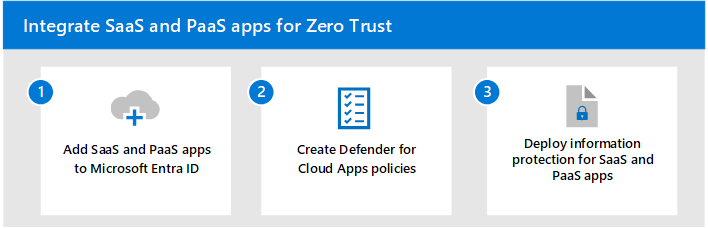
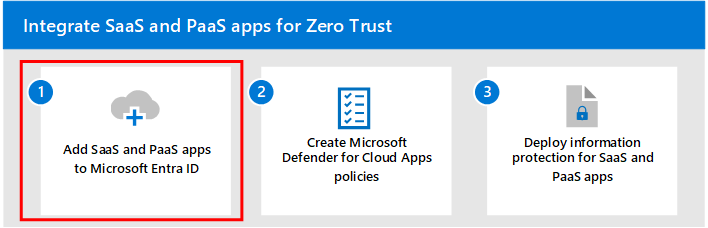
Zero Trust SaaS solution article updates.

diff --git a/security-docs/zero-trust/add-saas-apps.md b/security-docs/zero-trust/add-saas-apps.md
@@ -16,15 +16,17 @@ ms.collection:
 
 # Step 1: Add SaaS apps to Microsoft Entra ID and to the scope of policies 
 
+<!---
 Many organizations rely on SaaS apps to run business workflows. The ease of use, cost effectiveness, and scalability makes it a viable solution for organizations to adopt. Because of the amount information and access to valuable resources these apps have, proper measures must be in place to secure these business-critical apps.
+--->
 
-Microsoft Entra ID is the Microsoft cloud-based identity and access management service. Microsoft Entra ID provides secure authentication and authorization solutions so that customers, partners, and employees can access the applications they need. With Microsoft Entra ID, [Conditional Access](/azure/active-directory/conditional-access/overview), [multi-factor authentication](/azure/active-directory/authentication/concept-mfa-howitworks), [single-sign on](/azure/active-directory/hybrid/how-to-connect-sso), and [automatic user provisioning](/azure/active-directory/app-provisioning/user-provisioning) make identity and access management easy and secure.
+Microsoft Entra ID is the Microsoft cloud-based identity and access management service. Microsoft Entra ID provides secure authentication and authorization solutions so that customers, partners, and employees can access the applications they need. With Microsoft Entra ID, [Conditional Access](/azure/active-directory/conditional-access/overview), [multi-factor authentication](/azure/active-directory/authentication/concept-mfa-howitworks), [single-sign on (SSO)](/azure/active-directory/hybrid/how-to-connect-sso), and [automatic user provisioning](/azure/active-directory/app-provisioning/user-provisioning) make identity and access management easy and secure.
 
-Add apps in Microsoft Entra ID so that you can monitor and configure access for applications in the cloud. Microsoft Entra ID has an application gallery which is a collection of SaaS apps that have been pre-integrated with Microsoft Entra ID. You can also choose to add your own custom apps. For more information, see [Five steps for integrating all your apps with Microsoft Entra ID](/azure/active-directory/fundamentals/five-steps-to-full-application-integration-with-azure-ad).
+Add your cloud apps in Microsoft Entra ID so that you can monitor and configure access for them. Microsoft Entra ID has an application gallery, which is a collection of SaaS apps that have been pre-integrated with Microsoft Entra ID. You can also your own custom apps. For more information, see [Five steps for integrating all your apps with Microsoft Entra ID](/azure/active-directory/fundamentals/five-steps-to-full-application-integration-with-azure-ad).
 
-After adding apps to Microsoft Entra ID, you can configure how apps are accessed by including them in the scope of your Zero Trust identity and device access policies. 
+After adding apps to Microsoft Entra ID, you can configure how apps are accessed and subject to specific conditions by including them in the scope of your [Zero Trust identity and device access policies](/microsoft-365/security/office-365-security/zero-trust-identity-device-access-policies-overview). 
 
-If you already have Defender for Cloud Apps deployed, you can discover SaaS apps that are being used in your organization. For more information, see [Discover and manage shadow IT in your network](/defender-cloud-apps/tutorial-shadow-it).
+If you already have Microsoft Defender for Cloud Apps deployed, you can discover SaaS apps that are being used in your organization. For more information, see [Step 2 of this solution](create-policies.md) and [Discover and manage shadow IT in your network](/defender-cloud-apps/tutorial-shadow-it).
 
 <a name='adding-apps-in-azure-ad'></a>
 
@@ -32,62 +34,61 @@ If you already have Defender for Cloud Apps deployed, you can discover SaaS apps
 
 Adding apps in Microsoft Entra ID helps you leverage one or more of the services it provides including:
 
-* Application authentication and authorization
-* User authentication and authorization
-* SSO using federation or password
-* User provisioning and synchronization
-* Role-based access control - Use the directory to define application roles to perform role-based authorization checks in an application
-* OAuth authorization services - Used by Microsoft 365 and other Microsoft applications to authorize access to APIs/resources
-* Application publishing and proxy - Publish an application from a private network to the internet
-* Directory schema extension attributes to store additional data in Microsoft Entra ID 
+- Application authentication and authorization
+- User authentication and authorization
+- SSO using federation or password
+- User provisioning and synchronization
+- Role-based access control: Use the directory to define application roles to perform role-based authorization checks in an application.
+- OAuth authorization services: Used by Microsoft 365 and other Microsoft applications to authorize access to APIs/resources.
+- Application publishing and proxy: Publish an application from your private network to the internet.
+- Directory schema extension attributes to store additional data in Microsoft Entra ID
 
 There are several ways you can add apps in Microsoft Entra ID. The easiest way to start managing apps is to use the application gallery. You also have the option of adding custom apps. This section will guide you through both ways. 
 
 ### Add apps from the application gallery
 
-Microsoft Entra ID has an application gallery that contains a collection of SaaS apps that have been pre-integrated with Microsoft Entra ID. All you need to do is sign into Microsoft Entra ID and choose from applications from specific cloud platforms, featured applications, or you search for the application that you want to use.
+Microsoft Entra ID has an application gallery that contains a collection of SaaS apps that have been pre-integrated with Microsoft Entra ID. Just sign into Microsoft Entra ID and choose the applications from specific cloud platforms, featured applications, or search for the application that you want to use.
 
 For more information, see [Add an enterprise application](/azure/active-directory/manage-apps/add-application-portal#add-an-enterprise-application) and [Overview of Microsoft Entra application gallery](/azure/active-directory/manage-apps/overview-application-gallery).
 
 <a name='adding-custom-apps-in-azure-ad-app-gallery'></a>
 
 ### Adding custom apps in Microsoft Entra app gallery
-You can develop your own application and register it in Microsoft Entra ID. Registering it with Microsoft Entra ID lets you leverage the security features that the tenant provides. You can register your application in **App Registrations**, or you can register it using the **Create your own application** link when adding a new application in **Enterprise applications**.
 
-For more information, see  [Request to publish your application in the Microsoft Entra application gallery](/azure/active-directory/manage-apps/v2-howto-app-gallery-listing).
+You can develop your own custom cloud apps and register them in Microsoft Entra ID. Registering them with Microsoft Entra ID lets you leverage the security features that your Microsoft 365 tenant provides. You can register your application in **App Registrations**, or you can register it using the **Create your own application** link when adding a new application in **Enterprise applications**.
 
-## Add to the scope of your Zero Trust identity and device access policies
+For more information, see [Request to publish your application in the Microsoft Entra application gallery](/azure/active-directory/manage-apps/v2-howto-app-gallery-listing).
 
-After adding apps in Microsoft Entra ID, you'll need to add them to the scope your identity and device access policies. 
+## Add apps to the scope of your Zero Trust identity and device access policies
 
-Conditional Access policies allow administrators to assign controls to specific applications, actions, or authentication context. You can define conditions such as what device type can access a resource, user risk levels, trusted locations, as well as other conditions. Multifactor authentication (MFA) is also part of these policies. 
+Conditional Access policies allow you to assign controls to specific applications, actions, or authentication context. You can define conditions such as what device type can access a resource, user risk levels, trusted locations, as well as other conditions such as strong authentication. For example multifactor authentication (MFA) helps safeguard access to data and applications, by providing additional security by requiring a second form of verification and delivers strong authentication. 
 
-MFA helps safeguard access to data and applications, by providing additional security by requiring a second form of verification and delivers strong authentication. 
-
-:::image type="content" source="media/identity-access-ruleset-saas.svg" alt-text="The summary of policy updates for the protection of access to SaaS apps" lightbox="media/identity-access-ruleset-saas.svg":::
+After adding apps in Microsoft Entra ID, you'll need to add them to the scope of your identity and device Conditional Access policies. 
 
 ### Updating common policies 
 
-The following diagram illustrates which policies to update from the common identity and device access policies for SaaS apps.
+The following diagram shows the Zero Trust identity and device access policies for SaaS and PaaS apps, highlighting the set of common Conditional Access policies whose scopes must be modified to include your SaaS apps.
 
-For each policy to update, make sure that apps and dependent services are included in the assignment of cloud apps.
+:::image type="content" source="media/identity-access-ruleset-saas.svg" alt-text="The Zero Trust identity and device access policies for SaaS apps with the policies whose scopes must be modified highlighted." lightbox="media/identity-access-ruleset-saas.svg":::
 
-This table lists the policies that need to be revisited and links to each policy in the [common identity and device access policies](/microsoft-365/security/office-365-security/microsoft-365-policies-configurations).
+For each policy to update, make sure that your apps and their dependent services are included in the assignment of cloud apps.
+
+This table lists the policies that need to be reviewed with links to each policy in the [common identity and device access policies](/microsoft-365/security/office-365-security/microsoft-365-policies-configurations).
 
 |Protection level|Policies|Description|
 |---|---|---|
-|**Starting point**|[Require MFA when sign-in risk is *medium* or *high*](/microsoft-365/security/office-365-security/identity-access-policies#require-mfa-based-on-sign-in-risk)|Be sure apps and dependent services are included in the list of apps. |
-||[Block clients that don't support modern authentication](/microsoft-365/security/office-365-security/identity-access-policies#block-clients-that-dont-support-multi-factor)|Include apps and dependent services in the assignment of cloud apps.|
-||[High risk users must change password](/microsoft-365/security/office-365-security/identity-access-policies#high-risk-users-must-change-password)|Forces app users to change their password when signing in if high-risk activity is detected for their account. |
-||[Apply APP data protection policies](/microsoft-365/security/office-365-security/identity-access-policies#apply-app-data-protection-policies)|Be sure apps and dependent services are included in the list of apps. Update the policy for each platform (iOS, Android, Windows).|
-|**Enterprise**|[Require MFA when sign-in risk is *low*, *medium* or *high*](/microsoft-365/security/office-365-security/identity-access-policies#require-mfa-based-on-sign-in-risk)| Include apps and dependent services in this policy.|
-||[Require compliant PCs *and* mobile devices](/microsoft-365/security/office-365-security/identity-access-policies#require-compliant-pcs-and-mobile-devices)|Include apps and dependent services in this policy.|
-|**Specialized security**|[*Always* require MFA](/microsoft-365/security/office-365-security/identity-access-policies#require-mfa-based-on-sign-in-risk)|Regardless of user identity, MFA will be used by your organization.  |
+| **Starting point** | [Require MFA when sign-in risk is *medium* or *high*](/microsoft-365/security/office-365-security/identity-access-policies#require-mfa-based-on-sign-in-risk) | Be sure apps and dependent services are included in the list of apps. |
+| | [Block clients that don't support modern authentication](/microsoft-365/security/office-365-security/identity-access-policies#block-clients-that-dont-support-multi-factor) | Include apps and dependent services in the assignment of cloud apps.|
+| | [High risk users must change password](/microsoft-365/security/office-365-security/identity-access-policies#high-risk-users-must-change-password) | Forces app users to change their password when signing in if high-risk activity is detected for their account. |
+| | [Apply APP data protection policies](/microsoft-365/security/office-365-security/identity-access-policies#apply-app-data-protection-policies) | Be sure apps and dependent services are included in the list of apps. Update the policy for each platform (iOS, Android, Windows). |
+| **Enterprise** | [Require MFA when sign-in risk is *low*, *medium*, or *high*](/microsoft-365/security/office-365-security/identity-access-policies#require-mfa-based-on-sign-in-risk) | Include apps and dependent services in this policy. |
+| | [Require compliant PCs *and* mobile devices](/microsoft-365/security/office-365-security/identity-access-policies#require-compliant-pcs-and-mobile-devices) | Include apps and dependent services in this policy. |
+| **Specialized security** | [Always require MFA](/microsoft-365/security/office-365-security/identity-access-policies#require-mfa-based-on-sign-in-risk) | Regardless of user identity, MFA will be used by your organization.  |
 
 For more information, see [Recommended Microsoft Defender for Cloud Apps policies for SaaS apps](/microsoft-365/security/office-365-security/mcas-saas-access-policies). 
 
 ## Next step
 
-:::image type="content" source="media/saas-zt-steps-2.png" alt-text="Image of Zero Trust SaaS guidance with step 2 highlighted":::
+[![The steps for integrating and protecting SaaS apps with Step 2 hightlighted.](./media/saas-zt-steps-2.png)](create-policies.md)
 
 Continue with [Step 2](create-policies.md) to create Defender for Cloud Apps policies.

diff --git a/security-docs/zero-trust/integrate-saas-apps.md b/security-docs/zero-trust/integrate-saas-apps.md
@@ -16,67 +16,62 @@ ms.collection:
 
 # Integrate SaaS apps for Zero Trust with Microsoft 365 
 
-The widespread increase in cloud adoption is transforming how organizations achieve business outcomes.  This shift highlights the  reliance on cloud-based apps resulting in higher demand for services such as Software as a Service (SaaS), Platform as a Service (PaaS), Infrastructure as a Service (IaaS), and app development platforms. 
+The widespread increase in cloud adoption is transforming how organizations achieve business outcomes. This shift highlights the reliance on cloud-based apps resulting in higher demand for services such as Software as a Service (SaaS), Platform as a Service (PaaS), Infrastructure as a Service (IaaS), and app development platforms. SaaS apps play a key role in ensuring that applications and resources are available and accessible from any device with an Internet connection.
 
-While a multicloud environment can help reduce operational costs and improve scalability, the large amount of sensitive data and the flexibility it affords organizations can potentially pose a security risk. Deliberate steps must be taken to ensure that resources hosted in the cloud are protected. 
+While a multi-cloud environment can help reduce operational costs and improve scalability, the large amount of sensitive data and the flexibility it affords organizations can potentially pose a security risk. Deliberate steps must be taken to ensure that apps hosted in the cloud and their data are protected. 
 
-This solution guides you on applying Zero Trust principles using Microsoft 365 to help manage your digital estate of cloud apps, with a focus on SaaS. SaaS apps play a key role in ensuring that applications and resources are available and accessible from any device with an Internet connection.
+To ensure that access and productivity is secure, implementation of SaaS apps need to align with the Zero Trust security model, which is based on these guiding principles.
 
-To ensure that access and productivity is secure, implementation of SaaS needs to align with the Zero Trust security model, which is based on these guiding principles:
+| Zero Trust principle | Definition |
+| --- | --- |
+| Verify explicitly | Always authenticate and authorize based on all available data points. |
+| Use least privileged access | Limit user access with Just-In-Time and Just-Enough-Access (JIT/JEA), risk-based adaptive policies, and data protection. |
+| Assume breach | Minimize blast radius and segment access. Verify end-to-end encryption and use analytics to get visibility, drive threat detection, and improve defenses. |
 
-- Verify explicitly
+This solution helps you apply Zero Trust principles using Microsoft 365 to help manage your digital estate of cloud apps, with a focus on SaaS. 
 
-    Always authenticate and authorize based on all available data points. This is where Zero Trust identity and device access policies are crucial to sign-in and ongoing validation.
+The following diagram shows the relationships between your cloud apps and Microsoft Entra ID, Microsoft Defender for Cloud Apps, and Microsoft Purview Information Protection to apply these principles.
 
-- Use least privileged access
+:::image type="content" source="./media/saas-apps-products.svg" alt-text="The relationships between your third-party cloud apps, Microsoft Entra ID, Microsoft Defender for Cloud Apps, and Microsoft Purview Information Protection." lightbox="./media/saas-apps-products.svg":::
 
-    Limit user access with Just-In-Time and Just-Enough-Access (JIT/JEA), risk-based adaptive policies, and data protection.
+The diagram shows:
 
-- Assume breach
-
-    Minimize blast radius and segment access. Verify end-to-end encryption and use analytics to get visibility, drive threat detection, and improve defenses.
-
-Microsoft 365 capabilities help you bring your SaaS apps into management to meet the principles of Zero Trust security. 
-
-:::image type="content" source="./media/saas-apps-products.svg" alt-text="Image of SaaS apps and Microsoft products" lightbox="./media/saas-apps-products.svg":::
-
-In the illustration:
-
-- A collection of SaaS apps is pictured.
-- You can add these SaaS apps to Microsoft Entra ID and include these apps in the scope of your multi-factor authentication and conditional access policies. For more information, see [Integrating all your apps with Microsoft Entra ID](/azure/active-directory/fundamentals/five-steps-to-full-application-integration-with-azure-ad).
-- Using Microsoft Defender for Cloud Apps, you can discover other cloud apps your organization uses. You can approve apps, apply session controls, and discover sensitive data. For newly discovered enterprise cloud apps that supports federation you can add them to Microsoft Entra ID to enforce multi-factor authentication and other policies.
-- Microsoft Purview Information Protection capabilities can be extended through Microsoft Defender for Cloud apps to these cloud apps to protect data, and prevent data loss.
+- Examples of third-party cloud apps that include SaaS apps and your custom PaaS apps.
+- The role of Microsoft Entra ID to include these apps in the scope of your strong authentication and other Conditional Access policies. For more information, see [Integrating all your apps with Microsoft Entra ID](/azure/active-directory/fundamentals/five-steps-to-full-application-integration-with-azure-ad).
+- The role of Microsoft Defender for Cloud Apps in discovering the cloud apps that your organization uses. You can approve apps, apply session controls, and discover sensitive data. For newly-discovered enterprise cloud apps that support federation, you can add them to Microsoft Entra ID to enforce strong authentication and other policies.
+- The role of Microsoft Purview Information Protection to protect cloud app data and prevent data loss in conjunction with Microsoft Defender for Cloud apps.
 
 ## Implementing the layers of protection for SaaS apps
 
-Protecting SaaS apps is a multi-layer process. The following diagram illustrates building blocks to integrate SaaS apps that align with the Zero Trust security model. The elements related to achieving this are numbered 1, 2, and 3. These are the layers of protection that device admins will coordinate with other administrators to accomplish.
+This diagram shows the units of work for deploying Zero Trust capabilities across Microsoft 365, with the specific steps for SaaS app integration and protection.
 
-:::image type="content" source="./media/saas-zt.svg" alt-text="Image of Zero Trust deployment guidance" lightbox="./media/saas-zt.svg":::
-
-For the steps in the diagram illustration:
+ ::image type="content" source="./media/saas-zt.svg" alt-text="The Microsoft 365 Zero Trust deployment stack with the specific steps for SaaS app integration and protection highlighted." lightbox="./media/saas-zt.svg":::
 
 |Step|Description|
 |---|---|
 | 1. [Add SaaS apps to Microsoft Entra ID](add-saas-apps.md) | Add applications to Microsoft Entra ID so that authorized users can securely access it. Many types of applications can be registered with Microsoft Entra ID. |
 | 2. [Create Microsoft Defender for Cloud Apps policies](create-policies.md) | You want to make sure that policies are in place to ensure that only authorized users and specific conditions are met before users are able to access resources. |
-| 3. [Deploy information protection for SaaS apps](deploy-information-protection-saas.md) | Organizations need to protect proprietary information, ensure that information protection is in place so that sensitive data is protected. |
+| 3. [Deploy information protection for SaaS apps](deploy-information-protection-saas.md) | Organizations need to protect proprietary information and ensure that information protection is in place so that sensitive data is protected. |
 
 For guidance on licensing, see [Microsoft 365 guidance for security & compliance](/office365/servicedescriptions/microsoft-365-service-descriptions/microsoft-365-tenantlevel-services-licensing-guidance/microsoft-365-security-compliance-licensing-guidance).
 
-For more information, see the [Microsoft 365 Zero Trust deployment plan](/microsoft-365/security/microsoft-365-zero-trust).
+For more information about applying Zero Trust protections across Microsoft 365, see the [Microsoft 365 Zero Trust deployment plan](/microsoft-365/security/microsoft-365-zero-trust).
 
-## What's in this solution
-This solution steps through the deployment of key layers to integrate SaaS apps for Zero Trust with Microsoft 365. 
+## Next steps
 
-Microsoft 365 helps you manage your SaaS applications giving you control and optics to discover and manage apps. You're likely already aware of the primary cloud apps used by your organization. Microsoft Entra ID includes a gallery of apps you can add to your directory. You can also use Microsoft Defender for Cloud Apps to discover other cloud your users interact with. For more information, see [Discover and assess cloud apps](/defender-cloud-apps/best-practices#discover-and-assess-cloud-apps). After knowing your digital estate, you'll need to make sure that only authorized users and that certain conditions are met before they're accessed, and that the information is properly protected.
+<!---
+This solution steps through the deployment of steps to apply Zero Trust principles for your SaaS apps with Microsoft 365. 
 
-:::image type="content" source="./media/saas-zt-steps.png" alt-text="Image of Zero Trust SaaS guidance" lightbox="./media/saas-zt-steps.png":::
+Microsoft 365 helps you discover and manage your SaaS apps. You're likely already aware of the primary cloud apps used by your organization. Microsoft Entra ID includes a gallery of apps you can add to your directory. You can also use Microsoft Defender for Cloud Apps to discover other cloud apps that your users are using. For more information, see [Discover and assess cloud apps](/defender-cloud-apps/best-practices#discover-and-assess-cloud-apps). After you discover all your cloud apps, you'll need to make sure that only authorized users and that certain conditions are met before they're accessed, and that the app data is properly protected.
+--->
 
-The steps in this solution are:
+Use these steps to apply Zero Trust principles for your SaaS apps with Microsoft 365:
 
 1. [Add SaaS apps to Microsoft Entra ID](add-saas-apps.md).
 2. [Create Microsoft Defender for Cloud Apps policies](create-policies.md).
 3. [Deploy information protection for SaaS apps](deploy-information-protection-saas.md).
+
+[![The steps for integrating and protecting SaaS apps with Step 1 hightlighted.](./media/saas-zt-steps.png)](add-saas-apps.md)
 
 ## Recommended training
 

diff --git a/security-docs/zero-trust/create-policies.md b/security-docs/zero-trust/create-policies.md
@@ -128,9 +128,8 @@ Try out Defender for Cloud Apps tutorials:
 - [Protect your files with admin quarantine](/cloud-app-security/use-case-admin-quarantine)
 - [Require step-up authentication upon risky action](/cloud-app-security/tutorial-step-up-authentication)
 
-
 ## Next step
 
-:::image type="content" source="media/saas-zt-steps-3.png" alt-text="Image of Zero Trust SaaS guidance with step 3 highlighted":::
+[![The steps for integrating and protecting SaaS apps with Step 3 hightlighted.](./media/saas-zt-steps-3.png)](create-policies.md)
 
 Continue with [Step 3](deploy-information-protection-saas.md) to deploy information protection for SaaS apps.
